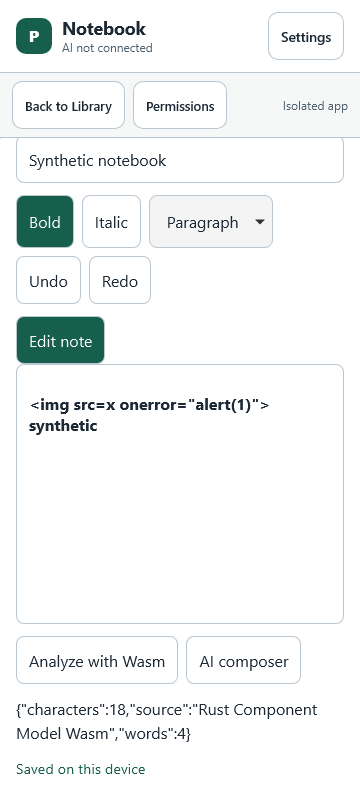
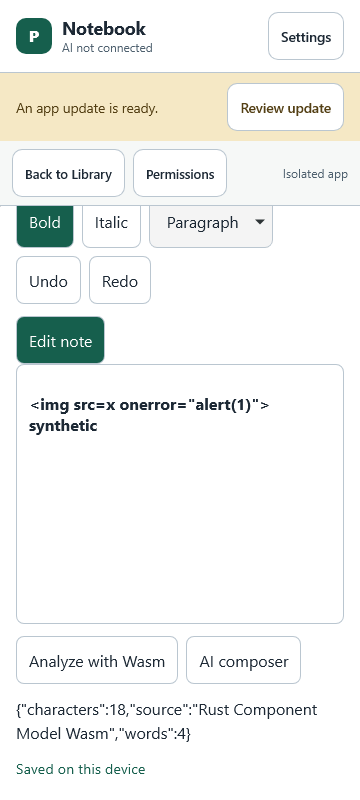
Record retained verification findings before clean-checkout CI

Changed region(s): [[0.0, 0.0938, 1.0, 0.2812], [0.7944, 0.2188, 0.8861, 0.25], [0.9167, 0.2188, 0.9472, 0.25]]

diff --git a/evidence/package-verifier/summary.md b/evidence/package-verifier/summary.md
@@ -49,7 +49,7 @@ with explicit synthetic P-256 roots, verify and install through the actual contr
 mount the production opaque loader, edit the rendered textarea, assert frame DOM access denial and
 360-pixel width, then verify the CLI development preview and rebuild after changing source. They are
 desktop engine observations, not physical iOS or Android results. Original machine-path-bearing
-Playwright JSON remains under ignored `artifacts/evidence/package-verifier`.
+Playwright JSON is excluded from public evidence; the public copy removes machine paths.
 
 Honest limits: unit/integration package signatures use newly generated explicit demo/test keys, and
 are real P-256 signatures; they are not Sigstore publisher attestations. The transport tests use
